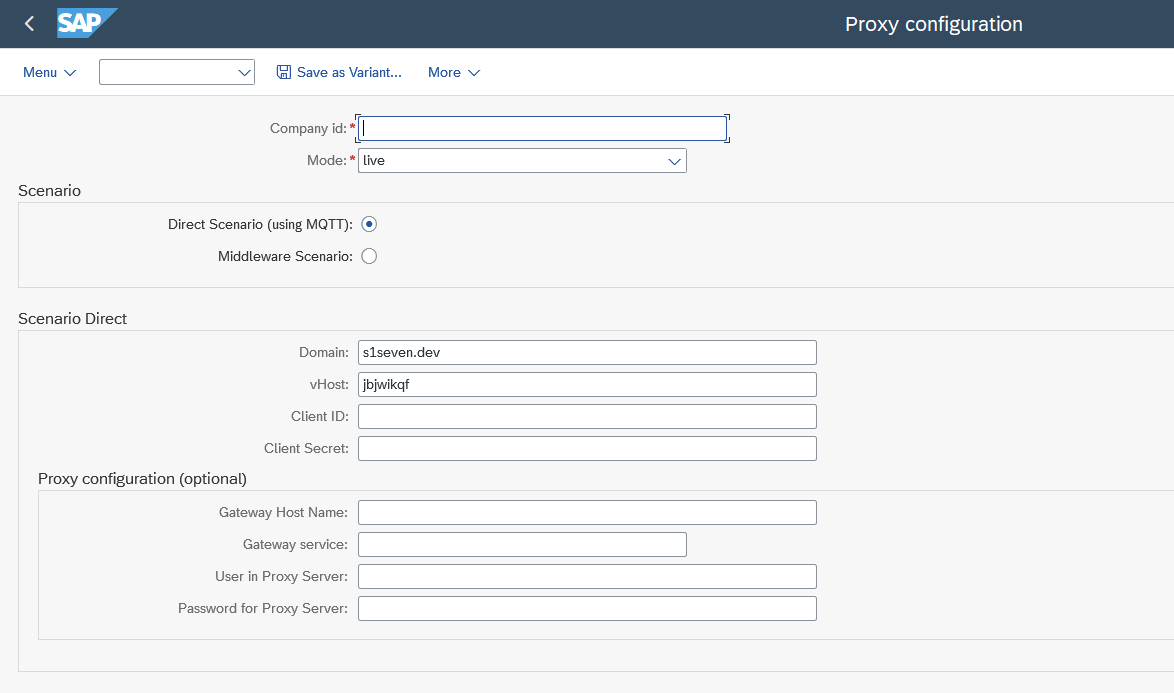
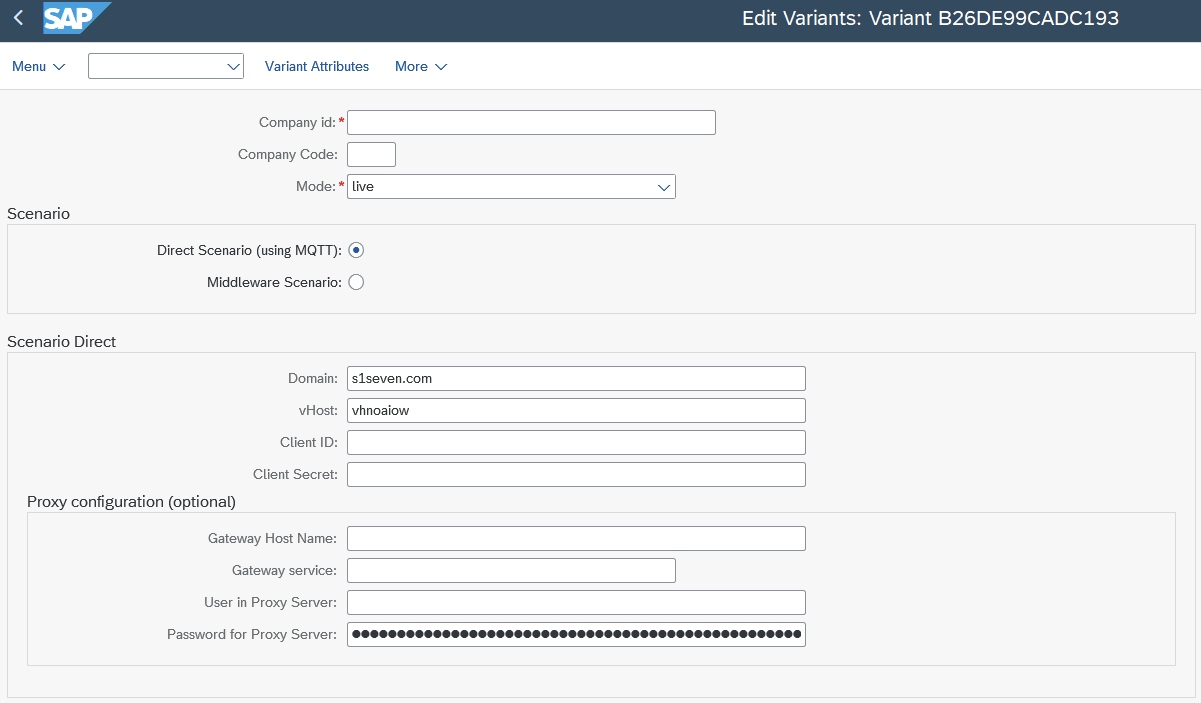
multiple companies

diff --git a/content/setup/README.md b/content/setup/README.md
@@ -4,19 +4,31 @@
 
 <!-- code_chunk_output -->
 
-1. [SAP System Setup](#sap-system-setup)
-    1. [System Setup with /UBC/S17_SETUP](#system-setup-with-ubcs17_setup)
-    2. [Proxy Setup with /UBC/S17_SETUP_PROXY](#proxy-setup-with-ubcs17_setup_proxy)
-2. [Certificate Configuration/Implementation instructions](#certificate-configurationimplementation-instructions)
-    1. [Outbound case - issuing/notarizing Certificates](#outbound-case---issuingnotarizing-certificates)
-    2. [Inbound case - receiving Certificates](#inbound-case---receiving-certificates)
-3. [Connectivity](#connectivity)
-    1. [Direct communication with S1SEVEN](#direct-communication-with-s1seven)
-    2. [Indirect Communication with S1SEVEN via Middleware](#indirect-communication-with-s1seven-via-middleware)
-4. [Monitoring](#monitoring)
-5. [Authorization](#authorization)
-6. [Data Archiving](#data-archiving)
-7. [Compatibility](#compatibility)
+- [Table of Content](#table-of-content)
+  - [SAP System Setup](#sap-system-setup)
+    - [System Setup with /UBC/S17\_SETUP](#system-setup-with-ubcs17_setup)
+    - [Proxy Setup with /UBC/S17\_SETUP\_PROXY](#proxy-setup-with-ubcs17_setup_proxy)
+  - [Certificate Configuration/Implementation instructions](#certificate-configurationimplementation-instructions)
+    - [Outbound case - issuing/notarizing Certificates](#outbound-case---issuingnotarizing-certificates)
+      - [Print program/freestyle integration](#print-programfreestyle-integration)
+      - [IDOC integration](#idoc-integration)
+    - [Inbound case - receiving Certificates](#inbound-case---receiving-certificates)
+  - [Connectivity](#connectivity)
+    - [Direct communication with S1SEVEN](#direct-communication-with-s1seven)
+      - [SAP to S1SEVEN API for outbound messages](#sap-to-s1seven-api-for-outbound-messages)
+      - [S1SEVEN to SAP for inbound messages](#s1seven-to-sap-for-inbound-messages)
+        - [Messages via REST webservice calls](#messages-via-rest-webservice-calls)
+        - [Messages via MQTT over Websocket](#messages-via-mqtt-over-websocket)
+    - [Indirect Communication with S1SEVEN via Middleware](#indirect-communication-with-s1seven-via-middleware)
+      - [SAP Integration Suite/Cloud Platform Integration (CPI)](#sap-integration-suitecloud-platform-integration-cpi)
+        - [Integration Package/iFlow](#integration-packageiflow)
+        - [Open Connector](#open-connector)
+          - [SAP to S1SEVEN API for outbound messages](#sap-to-s1seven-api-for-outbound-messages-1)
+          - [S1SEVEN to SAP for inbound messages](#s1seven-to-sap-for-inbound-messages-1)
+  - [Monitoring](#monitoring)
+  - [Authorization](#authorization)
+  - [Data Archiving](#data-archiving)
+  - [Compatibility](#compatibility)
 
 <!-- /code_chunk_output -->
 
@@ -62,6 +74,7 @@ See step documentation below for the details.
 ### Proxy Setup with /UBC/S17_SETUP_PROXY
 
 You can use this task list for newly setting up a connection to S1SEVEN or if any of the details needs to be changed. (create/update)
+You can update this task list for every company created in S1SEVEN portal.
 
 Please sign up at [S1SEVEN Platform](https://app.s1seven.com) and
 
@@ -78,10 +91,12 @@ Proceed with transaction /UBC/S17_SETUP_PROXY:
    1. Company ID
       On S1SEVEN Platform, navigate to "Automate"->"Constants" and copy "Company ID":
       ![Company ID](./assets/figure_17.png "Company ID")
-   2. Mode
+   2. Company Code
+      This is just an **informative and optional** field in order to link the S1SEVEN proxy to a SAP company code. Its an optional field to easily choose from a list of proxies by SAP company code in a custom implementation.
+   3. Mode
       Choose processing mode `live` or `test`
       [TODO](@stiebitzhofer) please add details or ref to document describing mode?
-   3. Chosse from one of the following Scenarios. Wether to connect directly or connect via Middleware (as e.g., SAP Integration Suite)
+   4. Chosse from one of the following Scenarios. Wether to connect directly or connect via Middleware (as e.g., SAP Integration Suite)
       1. Scenario Direct
          ![Configuration details Scenario Direct](./assets/figure_31.png)
          Means that SAP is connecting directly to S1SEVEN API. MQTT is used for receiving "inbound" messages (see above [Connectivity](#connectivity)).
@@ -151,6 +166,13 @@ JSON data is transmitted besides the PDF document by default. This behavior can 
 For maintaining the Attribute for a specific Customer, please have a look at `/UBC/CUSTOMIZING` -> "S1SEVEN" -> "Customer Attributes".
 ![Customizing of Customers - Omit JSON](./assets/figure_49.png)
 The customizing should be pretty straightforward. Please note that empty cells for **Company id** or **Customer** can be seen as a "wildcard".
+
+**Multiple Companies**
+If only one Company was registered in [Proxy Setup with /UBC/S17_SETUP_PROXY](#proxy-setup-with-ubcs17_setup_proxy), the addon chooses the one and only company automatically for transmitting data. If more than one company was registered, obviously any point has to define the correct company. We recommend to specify a SAP company code for the Proxy while executing the tasklist. Thats only an informative field, but a flexible way to link SAP companies to S1SEVEN company ids without any logic or configuration change after all.
+
+> If multiple Companies were registered, it is **mandatory** to add some logic to choose the proxy.
+
+In the new BO class you will create below, redefine method `choose_proxy_by_input`. It is meant to choose from a list of proxies based on given input data. Cast the generic input data to the concrete type you chose in your implementation method `create_type_input`. See `/UBC/CL_S17_BO_CERT_OUT_IDOCEX` for an example implementation to copy from.
 
 #### Print program/freestyle integration
 
